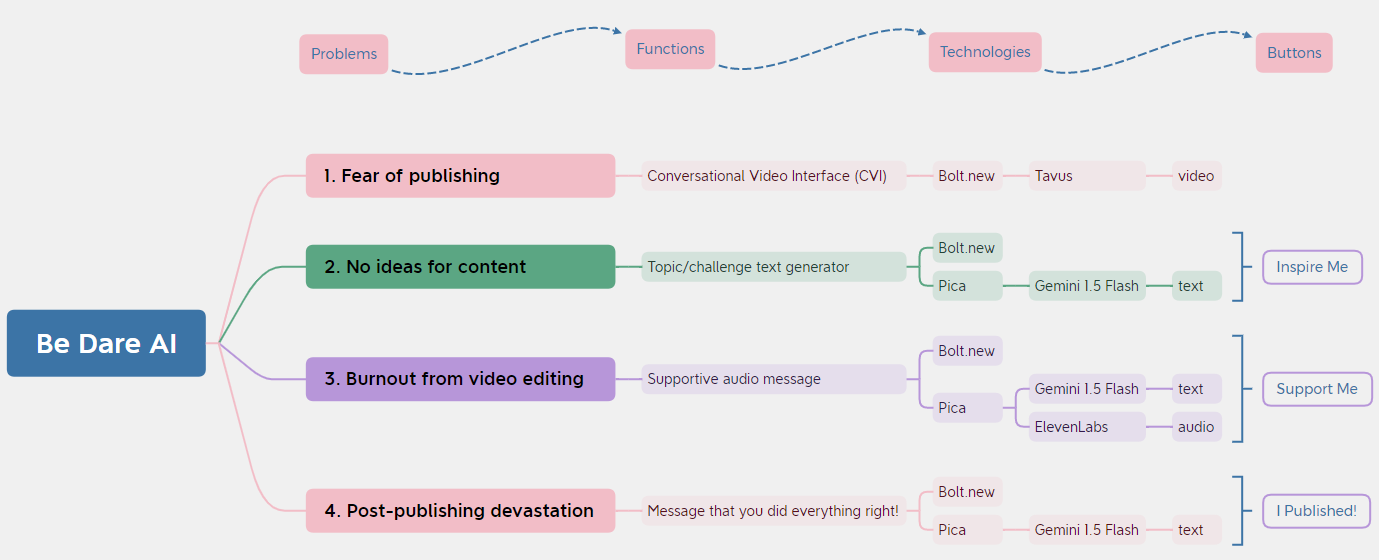
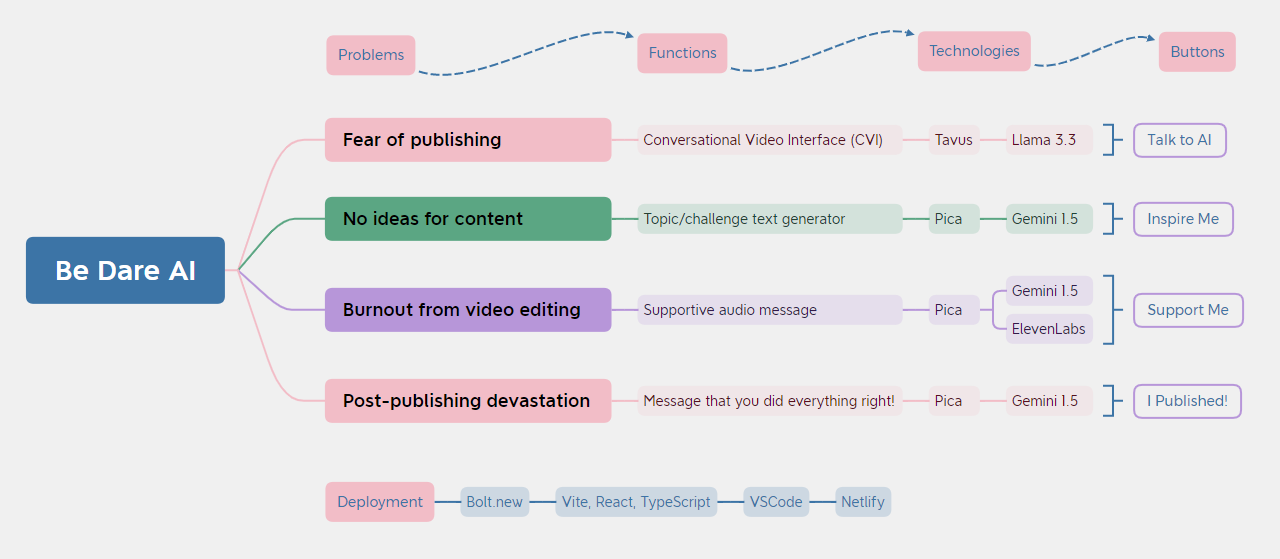
docs: update README to reflect changes in project description and development workflow; replace architecture image

diff --git a/README.md b/README.md
@@ -4,19 +4,21 @@
 ![Gemini Flash](https://img.shields.io/badge/Gemini-text-FF6D01?logo=google&logoColor=white&style=for-the-badge)
 ![Tavus](https://img.shields.io/badge/Tavus-video-blueviolet?style=for-the-badge)
 ![ElevenLabs](https://img.shields.io/badge/ElevenLabs-Audio-green?style=for-the-badge)
-![Bolt.new](https://img.shields.io/badge/Built%20with-Bolt.new-purple?style=for-the-badge)
-
-🛠 _Built with [Bolt.new](https://bolt.new) as part of the_ [**World’s Largest Hackathon**](https://worldslargesthackathon.devpost.com/) _by Bolt._
 
 Are you a content creator struggling with fear of publishing, a lack of content ideas, editing burnout, or post-publishing devastation? Be Dare AI is your go-to supportive AI tool designed to empower you through every stage of your creative journey. Get the encouragement, real-time video chat with AI coach for bloggers, and affirmation you need to overcome challenges and thrive.
 
+🛠 _Built as an MVP for the_ [**World’s Largest Hackathon by Bolt**](https://worldslargesthackathon.devpost.com/).
+
 ## Features
 
-- 🤝 **Conversation with support coach (AI Persona)**: Your personal AI guide from Tavus providing constant encouragement and feedback throughout your creative process.
-- 🎲 **Content Idea Generator (“Inspire Me” button)**: Overcome creative blocks and “No ideas for content” with AI-powered topic and challenge suggestions.
-- 🔊 **Supportive Audio Messages (“Support Me” button)**: Combat “Editing burnout” with uplifting and calming audio responses, generated by Gemini and synthesized via ElevenLabs.
-- ✅ **Post-Publishing Affirmation (“I Published!” button)**: Receive a motivating “Message that you did everything right!” from AI, helping to alleviate “Post-publishing devastation.”
-- 🚀 **Seamless Experience**: Adaptive UI for an easy start, no registration required – just open and act!
+| Feature                        | Button         | Description                                                                                                      |
+|-------------------------------|----------------|------------------------------------------------------------------------------------------------------------------|
+| Conversation with Persona     | Talk to AI     | Your personal AI guide support coach from Tavus, providing constant encouragement and feedback.                 |
+| Content Idea Generator        | Inspire Me     | Overcome creative blocks and “No ideas for content” with AI-powered topic and challenge suggestions.            |
+| Supportive Audio Messages     | Support Me     | Combat “Editing burnout” with uplifting and calming audio, generated by Gemini and synthesized via ElevenLabs.  |
+| Post-Publishing Affirmation   | I Published!   | Receive a motivating message from AI to help ease post-publishing emotional drop.      |
+
+> Seamless Experience: Adaptive UI for an easy start, no registration required – just open and act!
 
 ## ⚡ Technologies
 
@@ -25,11 +27,13 @@ Be Dare AI is proudly built with modern and efficient technologies:
 -   **Framework:** Vite + React + TypeScript
 -   **Styling:** Tailwind CSS
 -   **AI Integrations:**
-    -   Gemini 1.5 Flash (via Pica for dynamic message and idea generation)
-    -   ElevenLabs (via Pica for realistic voice synthesis)
-    -   Tavus (for Conversational Video Interface (CVI))
-
-The project was started on **Bolt.new** using its visual builder, then further developed in **VSCode** for full flexibility and AI integration.
+    - **Pica** – used to design custom API agents and route requests to:
+        -   **Gemini 1.5 Flash** for dynamic message and idea generation
+        -   **ElevenLabs** for realistic voice synthesis
+    - **Tavus** for Conversational Video Interface (CVI)
+- **Development Workflow:**
+  - Initial prototyping with **Bolt.new**’s visual editor
+  - Full development and integration done locally in **VSCode**
 
 ## 🌐 Architecture
 
@@ -47,12 +51,12 @@ To run Be Dare AI locally:
 npm install
 ```
 
-3.  Start the development server:
+3. Fill in the necessary keys: open `.env.example` as example, and create `.env`.
+
+4.  Start the development server:
 ```bash
 npm run dev
 ```
-
-Then, open `.env.example` as example, and create `.env`. Fill in the necessary keys for Pica, Gemini, ElevenLabs and Tavus.
 
 ## License
 
